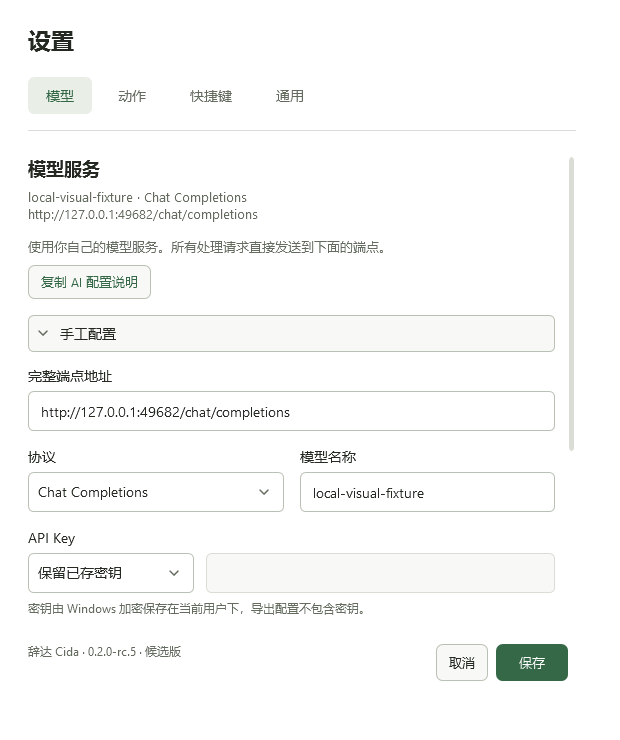
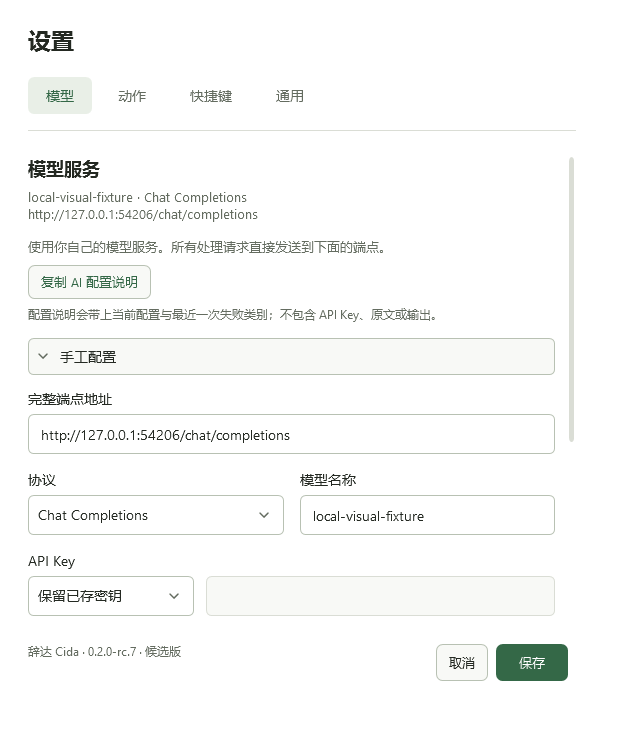
docs: record upstream v1.6.0 sync, rc.7 candidate notes and refreshed screenshots

diff --git a/docs/upstream-v1.6.0-sync.md b/docs/upstream-v1.6.0-sync.md
@@ -1,0 +1,170 @@
+# 上游 v1.6.0 同步记录
+
+2026-10-21。本文件记录辞达 Windows 移植从上游 [Xuanwo/cida](https://github.com/Xuanwo/cida) 的 `473013c`（PR #72）同步到 `v1.6.0`（`3099e0d`）的范围、Windows 对应实现与验证边界。
+
+本轮是**行为移植**：沿用 Windows 版现有的 WPF / .NET 10 结构、中文界面与测试约定，不逐行翻译 macOS 的 Swift 源码，也不搬运上游设计稿、原生截图、视觉基线或网站字体子集。
+
+## 基线与范围
+
+| 项目 | 提交 | 说明 |
+|---|---|---|
+| Windows 移植原基线 | `473013c93e052e08603ffd2faccda0d6dafbb5be` | 上游 #72「keep execution and copy actions in stable positions」，位于 `v1.5.1` 之后 5 个提交（`v1.5.1-5-g473013c`） |
+| 本轮同步目标 | `3099e0dcbc2bafe0a86e6a04d1941b78afacbfd6` | 上游 `v1.6.0` tag；发布说明为上游 `docs/releases/1.6.0.md` |
+| 覆盖提交 | 6 个 | 5 个功能/修复（#73、#74、#78、#79、#80）加 1 个发布说明（#81） |
+
+Windows 移植此前已经包含 `473013c` 及之前的 #69–#72（首次使用配置引导、模型配置诊断交接、执行与语言确认、执行/复制固定位置）。本轮补齐 #73、#74、#78、#79、#80 的行为与 #81 的发布说明，并把 README、NOTICE 中的上游来源固定更新为 `3099e0d`。随包字体仍为基于 SIL OFL 的 Cida Serif / Cida Chinese Serif 静态派生，上游网站字体子集不进入 Windows 包。
+
+## 上游最近更新
+
+### 六个提交
+
+| 日期 | 提交 | PR | 标题 |
+|---|---|---|---|
+| 2026-10-08 | [`aedb4ca`](https://github.com/Xuanwo/cida/commit/aedb4caccfe8406e5e7e439069ed140955069427) | [#73](https://github.com/Xuanwo/cida/pull/73) | feat: recover failed requests and automatically segment long input |
+| 2026-10-08 | [`a48745e`](https://github.com/Xuanwo/cida/commit/a48745e79632f93d6763605d5718ab4b7cea1122) | [#74](https://github.com/Xuanwo/cida/pull/74) | feat: try saved actions without editing their prompts |
+| 2026-10-20 | [`0cc8ced`](https://github.com/Xuanwo/cida/commit/0cc8ced051ef4dfec69c5dfb87e5a4e746cd548d) | [#78](https://github.com/Xuanwo/cida/pull/78) | feat: clarify shortcut and permission settings |
+| 2026-10-20 | [`f336ad4`](https://github.com/Xuanwo/cida/commit/f336ad4cf31b77077747e01207606bc7bb8205b9) | [#79](https://github.com/Xuanwo/cida/pull/79) | feat: install updates after one confirmation |
+| 2026-10-21 | [`2c25042`](https://github.com/Xuanwo/cida/commit/2c250420a09a1b5526369528558ee1b99e58dffe) | [#80](https://github.com/Xuanwo/cida/pull/80) | fix: make essential interface text easier to read |
+| 2026-10-21 | [`3099e0d`](https://github.com/Xuanwo/cida/commit/3099e0dcbc2bafe0a86e6a04d1941b78afacbfd6) | [#81](https://github.com/Xuanwo/cida/pull/81) | docs: prepare the v1.6.0 release notes |
+
+### 各提交要点
+
+- **#73 失败恢复与自动分段**：为失败提供可操作的恢复路径，保留已输出内容；把显式输入长度限制改为自动分段处理，覆盖自定义动作与编号层翻译。
+- **#74 动作试运行**：已保存动作可以不编辑提示词直接试运行；保留当前部分输出与上一次完整结果作参照；把「保存提示词」和「完成试运行」区分为两种状态；配置失败交给安全的配置助手交接，配置未变时不重复重试。
+- **#78 快捷键与权限说明**：在设置中直接解释每个快捷键的作用；说明文字在尾部控件之前获得可用宽度；录制与权限交互保持不变；长自定义组合在原生截图中可读。
+- **#79 一次确认安装更新**：更新消息使用尾随命令按钮并保留 Return 默认动作；一次确认携带明确的安装意图贯穿下载，面板关闭时撤销；延后下载可在设置中继续；重新检查前清除上次版本信息，失败的新检查不得显示旧版本。
+- **#80 界面文字易读性**：说明、反馈与安静命令改用次级文字；浅色次级文字加深；删除冗余 hint token 并入三级文字；字号、品牌与焦点样式保持不变。
+- **#81 v1.6.0 发布说明**：用中文准备发布说明，并补齐网站展示所需的字形子集。
+
+### v1.6.0 发布说明摘要（六条行为）
+
+上游 `docs/releases/1.6.0.md` 用中文概括了这一版：
+
+1. 首次打开时，辞达会引导你连接模型服务。复制配置提示词交给 AI 助手，它会继续配置和检查；辞达收到配置后，可以直接试译。
+2. 执行与复制有了固定位置：控制条负责执行、重新执行或停止，结果区负责复制文字或图片。修改原文或动作后，上次结果会标明「待更新」，仍可阅读和复制。
+3. 请求失败时，已经输出的文字会保留，并提供重试或模型设置入口。原文超过模型长度限制时，辞达会自动分段处理，不需要手动缩短原文。
+4. 动作提示词保存后，可以直接试运行；编辑时保留上次结果作参照，也可以放弃修改。保存成功但试运行失败时，会分别说明状态。
+5. 快捷键设置补充了每个入口的用途和权限说明，键盘焦点更加清晰。设置说明、语言确认和其他重要小字也更容易阅读。
+6. 更新只需确认一次「安装并重启」。下载期间离开面板会继续下载，但不会自动重启；你可以稍后再安装。
+
+其中第 1、2 条对应基线之前的上游 #69 与 #72，Windows 版在上轮移植中已完成；本轮 #73/#74 补全配置说明在请求失败与动作试运行失败上下文中的决策顺序，并让失败/停止后的复制与重试入口和已输出文字衔接。第 3–6 条依次由 #73、#74、#78 与 #80、#79 带入 Windows。
+
+## 功能对应与 Windows 适配
+
+### 1. 请求失败恢复与超长原文自动分段（#73）
+
+**上游行为**：失败按可操作类别展示并保留已输出的部分结果；失败说明提供重试或模型设置入口，配置类失败可把诊断交给 AI 配置助手；显式输入长度限制不再要求用户手动缩短原文，改为在同一个可取消请求内自动分段处理，覆盖自定义动作与编号层翻译。
+
+**Windows 实现**：
+
+- `windows/Cida.Core/ProcessingFailure.cs`：`ProcessingFailureCategory`（Timeout / Offline / Configuration / Limited / SecureConnection / Unknown）与 `ProcessingFailure`。`IsLengthLimit` 只认类型化错误：HTTP 413；400 且响应体为 `context_length_exceeded` / `request_too_large`；Anthropic typed 400 的三类 message 前缀。429、普通 400 与仅 provider 自然语言提示不触发分段。
+- `windows/Cida.Core/ModelServiceSegmentation.cs`：`SourcePartition.Split` 依次按段落、句读（`.!?。！？；;`）、空白、文本元素边界对半切分，绝不切断代理对或组合字符，层翻译中保护 `⟦数字⟧` 占位符；仅当没有任何输出且错误为类型化长度限制时才进入分段，普通错误绝不重试；子段仍被拒时继续切分，已成功段不重发。`Translate`/`Improve` 按源顺序流式输出且分隔符只输出一次；`Custom` 动作的每段输出经一次「Result assembly contract:」请求合并为单个 JSON，不直接拼接多段 JSON。终止有界，最小单元仍超长时报 `LengthRecoveryExhausted`（Configuration 类别）；取消贯穿整条序列，取消后不再发请求或回调。
+- `windows/Cida.Core/ConfigurationPrompt.cs`：按上游决策顺序生成「复制 AI 配置说明」：未配置→从头配置；配置不完整→继续配置；存在与当前 `ModelServiceFingerprint` 相同的面板请求/动作试运行失败→继续检查；上次连接检查失败且指纹相同→沿用失败检查说明；否则使用默认说明。过期指纹的旧失败被过滤，输出不含 API Key、原文或模型输出；保留 Windows 的 `Cida.Cli.exe config show --json`、`check --verbose`、`config set`（密钥 stdin）与 `config schema` 命令说明。
+- `windows/Cida.Core/PanelState.cs`：新增 `ProcessingFailure? Failure` 与 `Fail(serial, failure)`，只接受 Streaming 状态；失败时保留已流出的部分结果，取消或失败后晚到的 append/finish 被拒绝。
+- `windows/Cida.Core/LayerTranslation.cs` 与 `windows/Cida.Desktop/LayerSession.cs`：批量层翻译被长度拒绝且段数大于 1 时对半切分再合并；单段被拒时用占位符安全切分。批量 JSON 的 `id` 契约不变，现有 `_retryAfter`、`RetainLayerResult` 文案与超时行为保留。
+- 面板与设置：`windows/Cida.Desktop/AppModel.cs`、`PanelWindow.xaml(.cs)`、`ResultDocument.cs` 使用上述 Core 行为。失败说明行区分「配置未变」与「配置已变/其他类别」：前者打开模型设置并阻止 Enter 重试，后者提供重试；结果区标明「请求失败 / 未完成」，复制按钮按已有文字或图片处理。
+- 测试：`tests/Cida.Core.Tests/ProcessingFailureTests.cs`、`ModelServiceSegmentationTests.cs`、`ConfigurationPromptTests.cs`。分段测试通过本地 HTTP 侦听器覆盖 chat-completions、responses、anthropic-messages 三种协议，以及普通 503 只请求一次、最小单元仍超长时有界失败、取消后不再发请求等用例。
+
+**Windows 适配说明**：失败解释以 WPF 面板内的说明行加按钮呈现，与 macOS 的行内失败说明保持相同分类与决策顺序；类型化长度检测跨三种协议共用，不解析 provider 的普通自然语言错误；不引入 macOS 私有能力。
+
+### 2. 已保存动作直接试运行（#74）
+
+**上游行为**：浏览/选中动作不自动发请求；已保存动作可用固定样例直接试运行，无需编辑提示词；试运行保留当前部分输出与上一次完整结果作为参照；保存与试运行是两件事，保存成功但试运行失败分别说明；配置失败且指纹与提示词未变时不得重复发送；可放弃修改。
+
+**Windows 实现**：
+
+- `windows/Cida.Core/ActionEditor.cs`：纯逻辑引擎。`Apply` 先持久化草稿再按需试运行已保存版本，试运行失败不回滚已保存内容；`Previews` 保存上一次完整结果，`Attempts` 记录本次 Running / Stopped / Failed 状态；停止保留当前 partial 并丢弃晚到 chunk；`TrySavedAction` 使用固定样例 `This sentence need to be more clear and natural.`；`NeedsConfiguration` 用失败类别加指纹/提示词匹配决定是否允许重试；`Discard` 不影响已保存内容与参照；脏草稿不可试运行。
+- `windows/Cida.Desktop/SettingsWindow.xaml(.cs)`：动作页提供「试运行 / 再次运行 / 重试」、明确的「放弃修改」、参照标注（`参照 · 已保存版本的结果` / 过期标注）与运行/停止/失败状态；配置失败说明提供「模型设置」入口并切换到模型页。
+- 测试：`tests/Cida.Core.Tests/ActionEditorTests.cs` 覆盖上游新增用例：不编辑直接试运行、停止保留 partial 且晚到 chunk 不覆盖、旧参照保留、保存成功后失败不回滚、配置未变不能重试、改配置后可重试、放弃修改不动已保存与参照、试运行成功替换参照、请求使用固定样例、取消/停止状态。
+
+**Windows 适配说明**：Windows 设置页用现有按钮与键盘焦点约定实现同一状态机；不照搬 macOS 的设置行布局、`⌘↵` 提示与动效；动作编辑器仍保存完整设置，试运行结果不写入配置。
+
+### 3. 快捷键与能力说明（#78）
+
+**上游行为**：快捷键设置逐项解释用途；说明文字在尾部控件之前获得可用宽度；录制与权限交互保持不变；长自定义组合可读。权限行说明改为更具体的能力描述。
+
+**Windows 实现**：
+
+- `windows/Cida.Desktop/SettingsWindow.xaml(.cs)` 快捷键页逐条写明 Windows 入口：
+  - `Alt+A` 打开面板；选中文字会带入，按首项动作处理；
+  - `Alt+S` 框选屏幕文字并翻译；
+  - `Alt+D` 指着的段落换成译文，再按换回；加 `Shift`（`Alt+Shift+D`）翻译整个窗口；
+  - `Alt+F` 改进选中文字，直接写回原处。
+- 行布局改为说明/标签先获得可用宽度，尾部录制与「恢复默认」控件按内容宽度收缩，长组合快捷键不被截断；录制交互与热键注册逻辑保持不变，热键冲突仍在设置页与托盘反馈。
+- 能力说明替换 macOS 的辅助功能/屏幕录制权限行。Windows 没有这两项权限开关：设置页说明 UI Automation 读取与安全替换、随包离线 OCR 引擎、全局热键冲突与可用状态；`probe-identity` 只检查能力，`probe-ocr --offline` 可验证离线识别。
+- 键盘焦点样式沿用现有控件；说明文字改用更易读的次级文字层级（见 #80）。
+
+**Windows 适配说明**：上游权限行的文案改动是针对 macOS 辅助功能/屏幕录制开关的；Windows 将同一信息量放在快捷键页的能力说明中，不伪造权限状态，也不引入额外的系统授权步骤。
+
+### 4. 一次确认安装更新（#79）
+
+**上游行为**：更新提示使用尾随命令按钮并保留 Return 默认动作；用户确认一次即携带明确的安装意图贯穿下载，面板关闭/离开观看时撤销该意图而不打断下载；下载完成后若仍在观看则自动安装重启，否则保留「稍后安装」；重新检查开始时要清除上次版本信息和发布说明，失败的新检查不得显示旧版本；可跳过某个版本。
+
+**Windows 实现**：
+
+- `windows/Cida.Core/UpdateSession.cs`：纯状态机，不依赖 Velopack。`UpdatePhase`（Idle / Checking / Current / Found / Downloading / Ready / Installing / Failed）、版本/当前版本/说明/下载百分比/错误、`IsWatching`、`InstallWhenReady`、`StatusText`；`BeginCheck()` 清空上次版本/说明/百分比/错误；`ChooseInstall()` 记录一次确认；`DownloadCompleted()` 仅在 `InstallWhenReady && IsWatching` 时进入 Installing，否则为 Ready 并保留「稍后安装」；`Watch(false)` 离开即撤销安装意图，之后再次观看也不恢复；失败清除安装意图；`SkipVersion()`/`IsSkipped` 记录跳过的版本。
+- `windows/Cida.Desktop/UpdateService.cs`：Velopack 驱动。`InstallAndRestartAsync()` 一次确认→下载（进度进 session）→仍在观看时自动 `Restart()` 安装重启，无需第二次确认；`SetWatched(bool)` 对应设置页可见性；`SkipVersion()` 记录并清空可用更新，后续检查不提示该版本；新增 `Phase`、`AvailableVersion`、`Notes`、`CanInstallNow`、`CanSkipVersion`、`PrepareForRestart` 钩子，保留原公开成员作为兼容包装。继续使用 `win-x64-preview` 通道、跳过版本文件与检查时间戳；开发版（未安装）保持现有「开发版本」提示。
+- `windows/Cida.Desktop/SettingsWindow.xaml(.cs)` 与 `TrayMenu.cs`：更新页按「检查更新 → 发现版本显示更新内容 → 安装并重启（一次确认） + 稍后 + 跳过这个版本」组织；下载期间显示进度与取消；延后安装可从设置或托盘继续；关闭设置时 `SetWatched(false)`。
+- 测试：`tests/Cida.Core.Tests/UpdateSessionTests.cs` 覆盖一次确认无需第二次确认、下载中离开再回来仍为 Ready、后台下载安静、失败清除安装意图、重新检查清除旧版本与说明、跳过版本、各阶段状态文案。
+
+**与 macOS 的差异**：macOS 上游使用 Sparkle（appcast、Ed25519 签名与更新安装）；Windows 使用 Velopack `win-x64-preview` 通道和 Setup/Portable 形态。两者保持「一次确认」的交互语义，但 Windows 候选包未签名，不声称签名、干净机器或完整远端更新验证。
+
+### 5. 界面文字层级与易读性（#80）
+
+**上游行为**：说明文字、反馈与安静命令改用次级文字；浅色次级文字加深；删除冗余 hint token 并入三级文字；字号、品牌与焦点样式不变，并重新确认设计规格与视觉基线。
+
+**Windows 实现**：
+
+- `windows/Cida.Desktop/ThemeService.cs` 与 `windows/Cida.Desktop/Resources/Controls.xaml`：新增三级文字 token；说明、反馈、安静命令使用次级文字；弱提示层级只用于装饰性按键提示；保持字号、品牌色、焦点轮廓与高对比度系统颜色。
+- 设置页的快捷键说明、动作预览状态、失败解释、空状态提示、更新状态，以及主面板语言确认等小字改用次级文字；对比度测试覆盖浅/深色次级与三级文字在面板和纸色背景上的可读性。
+- 主面板、设置页与受控渲染截图按新的文字层级更新；不复制 macOS 的视觉基线。
+
+**Windows 适配说明**：Windows 的 token 名称、字号与控件状态由 WPF 主题维护，不照搬上游 Swift 的 token 表；「hint」在 Windows 中只保留装饰性按键提示的语义，与三级文字区分。品牌色与焦点样式不变。
+
+### 6. 发布说明与来源固定（#81）
+
+**上游行为**：用中文准备 `v1.6.0` 发布说明，并补齐网站展示所需的字形子集。
+
+**Windows 实现**：
+
+- 新增本文件与 [`docs/releases/v0.2.0-rc.7.md`](releases/v0.2.0-rc.7.md)，按 Windows 候选版风格说明同步能力、下载与验证三件套以及未签名边界。
+- `README.md` 更新下载链接与版本号、功能列表、上游固定提交和文档链接；`NOTICE` 更新派生来源提交。
+- 上游网站字体子集（`website/assets/fonts`）、`Design/` 截图与视觉基线不进入 Windows 仓库；Windows 字体资源保持现有 Cida Serif / Cida Chinese Serif 与 OFL 许可文件，不新增来源不明资源。
+
+**Windows 适配说明**：发布说明是 Windows 版本自己的文档，不复用上游发布页排版或截图；上游 tag、提交和 PR 链接保留在本文中供核对。
+
+## 与 macOS 的差异边界
+
+- **更新机制**：上游 macOS 使用 Sparkle appcast 与 Ed25519 签名更新；Windows 使用 Velopack `win-x64-preview` 通道、Setup 安装包与 Portable 便携包，安装重启由 Velopack 执行。
+- **权限与能力**：macOS 在系统设置里管理辅助功能/屏幕录制权限；Windows 没有对应权限面板，改用 UI Automation、随包离线 OCR 与热键冲突检测，能力说明放在设置页。普通权限应用无法越过 Windows 的管理员窗口隔离。
+- **交互载体**：上游使用 nonactivating `NSPanel`、状态菜单与原生设置窗口；Windows 使用 WPF 主面板、设置窗口、托盘菜单与单实例消息窗口，保持中文界面与现有键盘焦点约定。
+- **视觉资产**：不搬运上游 `Design/` 设计稿、原生截图、视觉基线与网站字体子集；Windows 使用自有受控渲染截图（`docs/screenshots/`）和令牌对比度测试，分别记录代码实现、受控渲染与真实桌面证据。
+- **工程约束**：保持 WPF / .NET 10 与三协议客户端结构，不新增 NuGet 包，不改 `.github/workflows`，不引入 macOS 私有能力；图片、字体与 OCR 资源来源和许可继续由 `NOTICE`、`licenses/` 与随包 provenance 文件记录。
+- **快捷键映射**：上游 `⌥`/`⇧` 组合在 Windows 对应现有 `Alt`/`Shift` 入口（`Alt+A`/`Alt+S`/`Alt+D`/`Alt+Shift+D`/`Alt+F`），不照搬 macOS 键名与符号。
+
+## 验证记录
+
+2026-10-21 在本机 Windows x64（.NET SDK 10.0.401）对分支 `codex/upstream-v1.6.0-sync` 复核。
+
+| 验证项 | 命令/范围 | 结果 |
+|---|---|---|
+| Release 构建 | `dotnet build windows -c Release` | 通过，0 警告 / 0 错误 |
+| Core 测试 | `dotnet test tests/Cida.Core.Tests -c Release` | 156/156 通过（见下方环境说明） |
+| Windows 默认测试 | `dotnet test tests/Cida.Windows.Tests -c Release` | 16 通过、0 失败、1 跳过（跳过项为需要交互桌面的 `FocusedSelectionAndPanelReopeningUseTheSourceWindow`） |
+| 受控渲染与视觉检查 | `dotnet run --project tests/Cida.VisualChecks -- --check-control-surfaces`、`--check-panel-chrome`、`--render-suite` | 全部通过；浅/深色四页设置、主面板状态、托盘菜单与实际窗口原生标题栏命中检查均成功，渲染指标与模型表单对齐未变 |
+| 候选包生成 | `pwsh -File scripts/package.ps1 -Version 0.2.0-rc.7` | 通过：生成 `Cida-win-x64-preview-Setup.exe`、`Cida-win-x64-preview-Portable.zip`、full.nupkg 与 `SHA256SUMS.txt`；VC runtime 校验、禁止证书/私钥/MSIX 检查通过；候选包内 `Cida.Cli.exe config schema` 冒烟通过；无受信任发布者签名 |
+| 真实桌面交互 | 真实鼠标/键盘/拖拽/输入法/多屏 | 未执行（自动化受控渲染已覆盖布局与命中；本会话无法完成真实输入验收） |
+| 干净机器安装/升级/卸载 | 目标 Windows 上的 Setup 与 Portable | 未执行 |
+| 受信任发布者签名 | Authenticode / 发布证书 | 未执行；本候选版无受信任发布者签名 |
+
+环境说明：本机 `dotnet test` 的 VSTest testhost 在当前会话环境无法启动（打开父进程被拒绝，与代码无关），因此上表测试以同一 xUnit 测试程序集通过本地反射 runner 执行，用例、断言与跳过条件与 `dotnet test` 一致；CI 使用 `dotnet test`。本会话开启 `CIDA_DESKTOP_TESTS=1` 尝试交互桌面用例时，选中文字读取等待超时（前台焦点/UIA 的会话环境限制），该用例未计入通过，也未作为本轮验收结论。
+
+补充边界：测试数字以最终分支提交和 CI 结果为准；跳过项须分别注明，不能把跳过写成通过。受控栅格不代表真实 OS DPI 切换，模拟响应不代表真实模型服务或外部应用兼容性。
+
+## 关联文档
+
+- 上游 v1.6.0 发布说明：[Xuanwo/cida docs/releases/1.6.0.md](https://github.com/Xuanwo/cida/blob/v1.6.0/docs/releases/1.6.0.md)
+- 本轮候选版说明：[v0.2.0-rc.7](releases/v0.2.0-rc.7.md)
+- Windows 体验重构方案与范围：[windows-experience-plan.md](windows-experience-plan.md)
+- 当前与历史的 Windows 验证记录：[verification.md](verification.md)、[windows-experience-verification.md](windows-experience-verification.md)
+- 品牌与字体来源：[NOTICE](../NOTICE)

diff --git a/docs/releases/v0.2.0-rc.7.md b/docs/releases/v0.2.0-rc.7.md
@@ -1,0 +1,20 @@
+# 辞达 Cida Windows v0.2.0-rc.7（未签名候选版）
+
+同步上游辞达 v1.6.0（macOS，`3099e0d`）的交互改进；Windows 移植此前固定在上游 `473013c`（#72）。范围、Windows 对应实现与平台差异见 `docs/upstream-v1.6.0-sync.md`。
+
+- 失败恢复：请求失败时保留已经输出的文字，并提供重试或模型设置入口；配置类失败把诊断交给 AI 配置助手，配置未变时不重复发送。
+- 超长原文：模型返回显式长度限制时自动分段处理，逐段流式拼接或组装为单个结果；编号层翻译保留段落 id 与占位符，不需要手动缩短原文。
+- 动作试运行：动作保存后可直接用固定样例试运行；编辑时保留上次完整结果作参照，也可以放弃修改；保存成功但试运行失败时分别说明状态。
+- 快捷键与能力说明：快捷键页逐条解释每个入口的用途，长组合保持可读；补充 UI Automation 读取/替换、离线 OCR 与全局热键冲突的说明。
+- 一次确认安装更新：确认「安装并重启」后开始下载；仍在更新页时下载完成自动重启，离开后继续下载但不自动重启，可稍后再安装，也可跳过这个版本。重新检查不会显示上次失败时的旧版本信息。
+- 文字易读性：设置说明、语言确认和其他重要小字使用更易读的次级文字，并增加三级文字层级；字号、品牌与焦点样式保持。
+
+## 下载与验证
+
+- `Cida-win-x64-preview-Setup.exe`：Windows x64 安装包，可手动升级。
+- `Cida-win-x64-preview-Portable.zip`：完整解压，运行根目录 `辞达 Cida（候选版）.exe`。
+- `SHA256SUMS.txt`：附件校验。GUI/CLI 自包含，离线简繁中文/英文 OCR 和 VC runtime 随包提供，无需开发证书、MSIX 身份包或另装 .NET。
+
+Release 构建通过（0 警告 / 0 错误）；Core 测试 156/156 通过；Windows 默认测试 16 通过、1 跳过（需要交互桌面的用例）；受控渲染与视觉检查（控制表面像素检查、原生标题栏命中、浅深色渲染套件）全部通过。真实桌面交互、安装/升级/卸载与签名验证未执行，不作为本候选版已通过的项目。测试与验收边界详见 `docs/upstream-v1.6.0-sync.md`。
+
+本版本没有受信任发布者签名，保持候选版标识；保留既有版本 tag 与发布附件，不改写历史。
